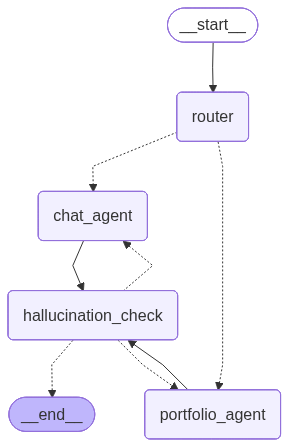
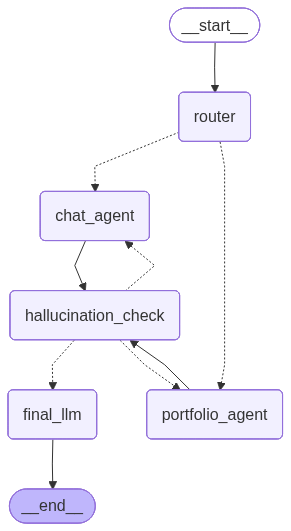
add readme

diff --git a/ai-service/graph/graph.py b/ai-service/graph/graph.py
@@ -51,3 +51,12 @@ def build_graph(checkpointer):
     workflow.add_edge(FINAL_LLM, END)
 
     return workflow.compile(checkpointer=checkpointer)
+
+
+if __name__ == "__main__":
+    from langgraph.checkpoint.memory import MemorySaver
+    app = build_graph(MemorySaver())
+    img = app.get_graph().draw_mermaid_png()
+    with open("graph.png", "wb") as f:
+        f.write(img)
+    print("graph.png saved")

diff --git a/README.md b/README.md
@@ -1,0 +1,195 @@
+# Aivestia — AI-Powered Robo-Advisor
+
+> An educational demo of an AI-driven investment advisor. Not a licensed financial product.
+
+**Live Demo:** https://www.aivestia.xyz
+
+---
+
+## Features
+
+- **Conversational AI Advisor** — Ask anything about ETFs, risk levels, market trends, or portfolio strategies via a streaming chat interface
+- **Personalized Portfolio Recommendations** — Rule-based allocation engine adjusted by user age, risk tolerance, investment horizon, and interests
+- **Dual-Agent Architecture** — LangGraph routes queries to a Chat Agent (market info) or Portfolio Agent (personalized recommendations) based on intent
+- **Hallucination Detection** — A dedicated verification node validates all answers against tool outputs before the final response is generated
+- **Historical Portfolio Simulation** — Compare your current holdings vs. the recommended portfolio with real historical performance data
+- **Real-Time Market Data** — Live stock prices, 52-week highs/lows, and recent news via Yahoo Finance and Finnhub
+- **RAG Investment Knowledge Base** — Pinecone vector store with 60+ pages of investment concepts (ETFs, asset allocation, Modern Portfolio Theory)
+- **Persistent Chat History** — Full conversation history stored in PostgreSQL with LangGraph checkpoint support
+
+---
+
+## Architecture
+
+### LangGraph Agent Flow
+
+![LangGraph Architecture](ai-service/graph.png)
+
+```
+User Message
+     │
+     ▼
+  ┌──────┐
+  │Router│  (gpt-4o-mini — classifies intent)
+  └──┬───┘
+     │
+     ├─────────────────────┐
+     ▼                     ▼
+┌──────────┐        ┌───────────────┐
+│Chat Agent│        │Portfolio Agent│
+│ gpt-5.4  │        │   gpt-5.4     │
+│          │        │               │
+│ Tools:   │        │ Tools:        │
+│ · price  │        │ · allocation  │
+│ · news   │        │ · simulation  │
+│ · RAG    │        │ · holdings    │
+│ · sim*   │        │ · price/news  │
+└────┬─────┘        └──────┬────────┘
+     │                     │
+     └──────────┬──────────┘
+                ▼
+     ┌──────────────────┐
+     │Hallucination Check│  (gpt-4o-mini — binary grounding score)
+     └────────┬─────────┘
+              │
+        ┌─────┴──────┐
+        │ grounded?  │
+        │  yes → FinalLLM
+        │  no  → retry (max 2)
+        └────────────┘
+                ▼
+          ┌──────────┐
+          │ Final LLM│  (gpt-4o — polished user-facing response)
+          └──────────┘
+```
+
+\* Chat Agent can also run simulations when explicitly requested.
+
+### Deployment
+
+```
+Browser → Vercel (React SPA)
+              │
+              ▼ HTTPS
+         Nginx (rate limiting + reverse proxy)
+              │
+              ▼
+         AWS EC2 (FastAPI + uvicorn)
+              │
+    ┌─────────┼──────────┬────────────┐
+    ▼         ▼          ▼            ▼
+ AWS RDS   Pinecone  Yahoo Finance  Finnhub
+(PostgreSQL) (vectors)  (prices)    (news)
+```
+
+---
+
+## Tech Stack
+
+### Backend
+| | |
+|---|---|
+| **FastAPI** | REST API + SSE streaming |
+| **LangGraph** | Multi-agent orchestration with PostgreSQL checkpointer |
+| **LangChain** | Agent framework, tool integration, RAG pipeline |
+| **OpenAI** | GPT-5.4 (agents) · GPT-4o (final LLM) · text-embedding-3-small (RAG) |
+| **PostgreSQL** | Chat history · user data · LangGraph state persistence |
+| **Pinecone** | Vector store for investment knowledge retrieval |
+| **yfinance** | Historical and real-time market data |
+| **Finnhub** | Company news API |
+
+### Frontend
+| | |
+|---|---|
+| **React 19** | UI framework |
+| **Vite** | Build tool |
+| **Recharts** | Portfolio performance charts |
+| **SSE** | Real-time streaming responses |
+
+### Infrastructure
+| | |
+|---|---|
+| **AWS EC2** | Backend hosting |
+| **AWS RDS** | Managed PostgreSQL |
+| **Nginx** | Reverse proxy · rate limiting |
+| **Vercel** | Frontend deployment |
+
+---
+
+## Project Structure
+
+```
+aivestia/
+├── ai-service/
+│   ├── main.py                  # FastAPI app — all REST endpoints
+│   ├── core.py                  # LangGraph stream/invoke wrappers
+│   ├── database.py              # PostgreSQL connection + schema init
+│   ├── ingestion.py             # RAG pipeline: crawl → chunk → embed → Pinecone
+│   ├── graph/
+│   │   ├── graph.py             # LangGraph workflow definition
+│   │   ├── state.py             # GraphState TypedDict
+│   │   └── nodes/               # Router, Chat Agent, Portfolio Agent, Hallucination Check, Final LLM
+│   ├── agents/
+│   │   ├── chat_agent.py        # General-purpose market info agent
+│   │   └── portfolio_agent.py   # Personalized portfolio recommendation agent
+│   ├── services/
+│   │   ├── portfolio_service.py # Rule-based allocation engine + interest tilts
+│   │   ├── performance_service.py # Historical simulation
+│   │   └── market_data_service.py # yfinance wrapper
+│   └── tools/                   # LangChain tool definitions
+│
+└── frontend/
+    └── src/
+        ├── pages/               # HomePage, ChatPage, HowItWorksPage, AboutPage
+        └── components/          # SimulationCard, PortfolioForm, SuggestionBar, ...
+```
+
+---
+
+## API Reference
+
+| Method | Endpoint | Description |
+|--------|----------|-------------|
+| `POST` | `/users` | Create or update user (records IP) |
+| `GET` | `/users/{user_id}/chats` | List user's chat sessions |
+| `POST` | `/users/{user_id}/chats` | Create a new chat session |
+| `PATCH` | `/chats/{chat_id}/title` | Rename a chat |
+| `DELETE` | `/chats/{chat_id}` | Delete a chat and its messages |
+| `GET` | `/chats/{chat_id}/messages` | Fetch chat message history |
+| `POST` | `/chat/stream` | **Streaming chat via SSE** (main endpoint) |
+| `POST` | `/portfolio` | Get rule-based portfolio allocation |
+| `POST` | `/portfolio/performance` | Run historical portfolio simulation |
+| `POST` | `/suggestions` | Generate 3 follow-up question suggestions |
+
+API docs available at `/docs` when `ENV=dev`.
+
+---
+
+## Portfolio Allocation Logic
+
+Portfolio allocation is fully **deterministic** — no AI involved in investment decisions.
+
+**Baseline allocations by risk level:**
+
+| Risk | VTI | VXUS | BND |
+|------|-----|------|-----|
+| Low | 30% | 20% | 50% |
+| Medium | 60% | 30% | 10% |
+| High | 80% | 20% | — |
+
+**Interest tilts** adjust the baseline by adding exposure to:
+`Tech & Growth` · `Dividend Income` · `ESG` · `International` · `REITs` · `Bonds` · `Value` · `Small & Mid Cap`
+
+Up to 3 interests are applied (primary +10%, secondary +5%), capped at a 20% total shift.
+
+---
+
+## Disclaimer
+
+Aivestia is an **educational demo** and is not a licensed financial advisor, broker, or investment product. All portfolio suggestions are for demonstration purposes only and do not constitute investment advice. Always consult a qualified financial professional before making investment decisions.
+
+---
+
+## Contact
+
+aivestia.ai@gmail.com
